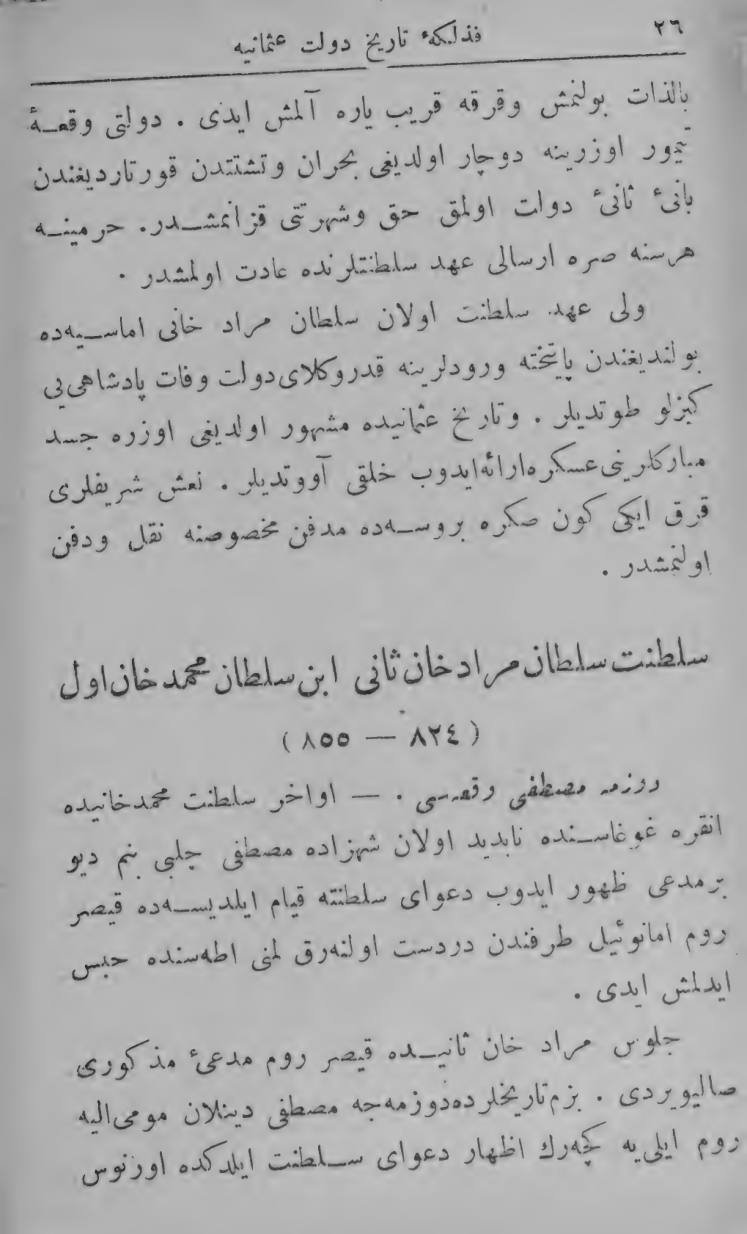
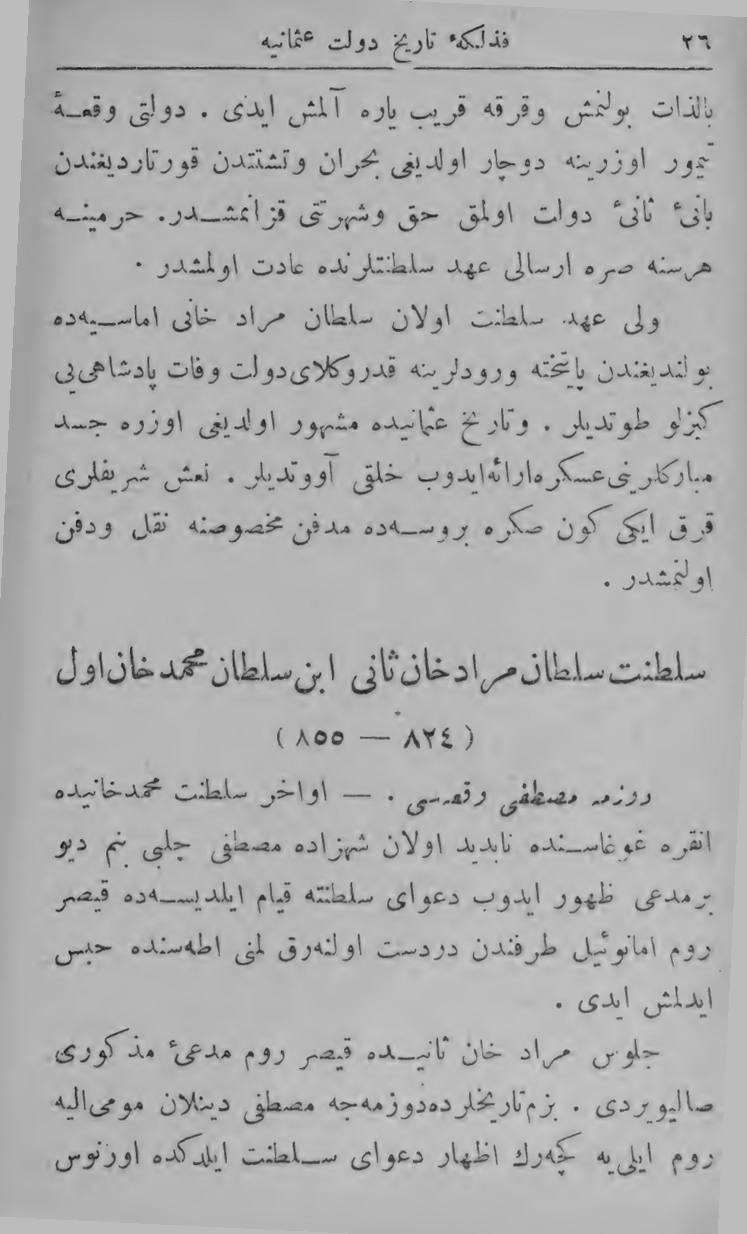
Fezleke: sayfa 21-25 metinleri; eğik taramaları düzelt
- Sayfa 21-25 Latin harfli metinleri (AI okuması, kontrol edilmedi)
- Satır bulma: belirgin eğik (2° ve üstü) taramalar önce düzeltilir;
  PDF 28, 36 ve 189'da satırlar artık doğru bulunuyor (ör. 9 → 20 satır).
  Düz sayfalar ve önceden yazılmış metinler değişmedi.

diff --git a/scripts/fezleke_satirlar.py b/scripts/fezleke_satirlar.py
@@ -32,6 +32,30 @@ def sayfa_resmi(sayfa) -> Image.Image:
     return Image.frombytes("L", (pm.width, pm.height), pm.samples)
 
 
+def egiklik(resim: Image.Image) -> float:
+    """Taramanın eğiklik açısı (derece). Satırlar düz iken yatay mürekkep profili en "keskin" olur;
+    küçük açılar denenip profil varyansının en büyük olduğu açı seçilir."""
+    kucuk = resim.resize((resim.width // 3, resim.height // 3))
+    a = np.asarray(kucuk, dtype=np.float32)
+    murekkep = (a < np.percentile(a, 90) - 60).astype(np.float32)
+    en_iyi, en_iyi_puan = 0.0, -1.0
+    for aci in np.arange(-3, 3.01, 0.25):
+        don = Image.fromarray((murekkep * 255).astype(np.uint8)).rotate(aci, resample=Image.BILINEAR)
+        puan = float(np.asarray(don, dtype=np.float32).mean(axis=1).var())
+        if puan > en_iyi_puan:
+            en_iyi, en_iyi_puan = float(aci), puan
+    return en_iyi
+
+
+def duzelt(resim: Image.Image) -> Image.Image:
+    """Belirgin eğik taramaları düzeltir; düz sayfalara dokunmaz (bulunan satırlar değişmesin)."""
+    aci = egiklik(resim)
+    if abs(aci) < 2:
+        return resim
+    kagit = int(np.percentile(np.asarray(resim), 90))
+    return resim.rotate(aci, resample=Image.BICUBIC, fillcolor=kagit)
+
+
 def satirlari_bul(resim: Image.Image) -> list[tuple[int, int]]:
     a = np.asarray(resim, dtype=np.float32)
     h, w = a.shape
@@ -126,7 +150,7 @@ def main():
     json_yol = HEDEF / "satirlar.json"
     veri = json.loads(json_yol.read_text(encoding="utf-8")) if json_yol.exists() else {}
     for n in range(a.ilk, a.son + 1):
-        resim = sayfa_resmi(d[n - 1])
+        resim = duzelt(sayfa_resmi(d[n - 1]))
         satirlar = satirlari_bul(resim)
         resim.save(HEDEF / "sayfalar" / f"s{n:03d}.jpg", quality=72, optimize=True)
         veri[str(n)] = {"genislik": resim.width, "yukseklik": resim.height,
